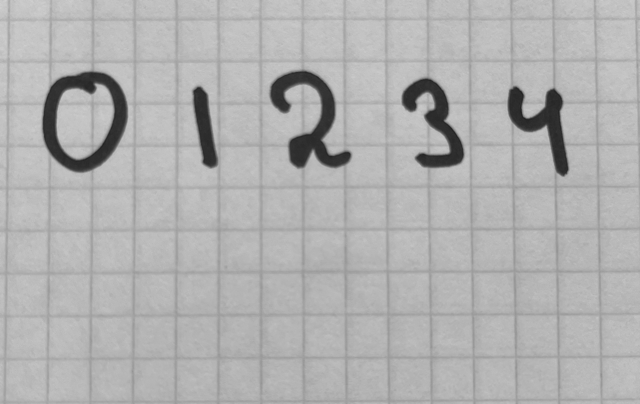
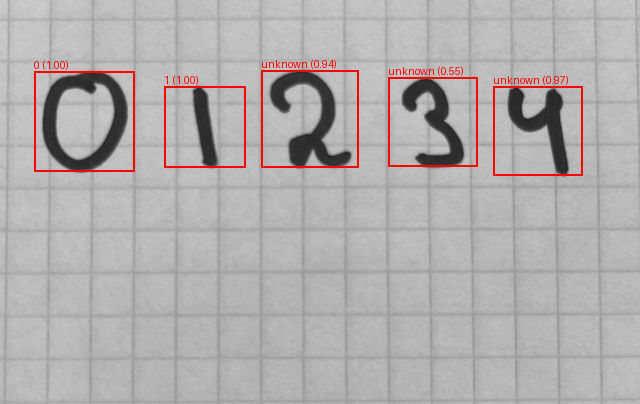
-

diff --git a/finder.py b/finder.py
@@ -4,59 +4,85 @@ from model import Net
 
 def load_and_binarize(path):
     img = Image.open(path).convert("L")
-    arr = np.array(img, np.float32) / 255
-    return (arr <= 0.4).astype(np.uint8), img
+    arr = np.array(img, dtype=np.float32) / 255.0
+    binary = (arr <= 0.4).astype(np.uint8)
+    return binary, img
 
 def find_objects(binary):
     h, w = binary.shape
-    visited = np.zeros((h, w), bool)
-    objs, dirs = [], [(-1,0),(1,0),(0,-1),(0,1)]
+    visited = np.zeros_like(binary, dtype=bool)
+    objects = []
+    dirs = [(-1,0),(1,0),(0,-1),(0,1)]
+
     for y in range(h):
         for x in range(w):
-            if binary[y,x] and not visited[y,x]:
-                q, pixels = [(y,x)], []
+            if binary[y,x] == 1 and not visited[y,x]:
+                queue = [(y,x)]
                 visited[y,x] = True
-                while q:
-                    cy,cx = q.pop()
+                pixels = []
+                while queue:
+                    cy,cx = queue.pop(0)
                     pixels.append((cx,cy))
                     for dy,dx in dirs:
                         ny,nx = cy+dy, cx+dx
-                        if 0<=ny<h and 0<=nx<w and binary[ny,nx] and not visited[ny,nx]:
+                        if 0<=ny<h and 0<=nx<w and binary[ny,nx]==1 and not visited[ny,nx]:
                             visited[ny,nx] = True
-                            q.append((ny,nx))
-                objs.append(pixels)
-    return objs
+                            queue.append((ny,nx))
+                objects.append(pixels)
+    return objects
 
-def preprocess_crop(binary, box):
-    x0,y0,x1,y1 = box
-    crop = binary[y0:y1+1, x0:x1+1] * 255
-    img = Image.fromarray(crop).resize((28,28), Image.LANCZOS)
-    return (np.array(img, np.float32)/255).flatten()[None,:]
+def preprocess_crop(binary, bbox):
+    x_min, y_min, x_max, y_max = bbox
+    crop = binary[y_min:y_max+1, x_min:x_max+1]
+    img = Image.fromarray(crop * 255).convert("L")
+    img = img.resize((28,28), Image.LANCZOS)
+    arr = np.array(img, dtype=np.float32) / 255.0
+    return arr.flatten()[None, :]
 
-def draw_objects(binary, objs, net, orig, out_path):
-    img, draw = orig.convert("RGB"), ImageDraw.Draw(orig.convert("RGB"))
+def draw_objects(binary, objects, net, orig_img, out_path):
+    img = orig_img.convert("RGB")
+    draw = ImageDraw.Draw(img)
 
-    for obj in objs:
-        xs, ys = [p[0] for p in obj], [p[1] for p in obj]
-        x0,x1,y0,y1 = min(xs),max(xs),min(ys),max(ys)
-        side = max(x1-x0+1, y1-y0+1)
-        cx, cy = (x0+x1)/2, (y0+y1)/2
-        x0,y0 = max(0,int(cx-side/2)), max(0,int(cy-side/2))
-        x1,y1 = min(binary.shape[1]-1,int(cx+side/2)), min(binary.shape[0]-1,int(cy+side/2))
+    for obj in objects:
+        xs = [p[0] for p in obj]
+        ys = [p[1] for p in obj]
+        x_min, x_max = min(xs), max(xs)
+        y_min, y_max = min(ys), max(ys)
 
-        vec = preprocess_crop(binary,(x0,y0,x1,y1))
+        w = x_max - x_min + 1
+        h = y_max - y_min + 1
+        side = max(w, h)
+        cx = (x_min + x_max) / 2
+        cy = (y_min + y_max) / 2
+
+        x_min_sq = int(cx - side/2)
+        x_max_sq = int(cx + side/2)
+        y_min_sq = int(cy - side/2)
+        y_max_sq = int(cy + side/2)
+
+        x_min_sq = max(0, x_min_sq)
+        y_min_sq = max(0, y_min_sq)
+        x_max_sq = min(binary.shape[1]-1, x_max_sq)
+        y_max_sq = min(binary.shape[0]-1, y_max_sq)
+
+        vec = preprocess_crop(binary, (x_min_sq,y_min_sq,x_max_sq,y_max_sq))
         probs = net.predict_proba(vec)[0]
-        cls, prob = probs.argmax(), probs.max()
-        label = f"{cls} ({prob:.2f})" if prob>=0.98 else f"unknown ({prob:.2f})"
+        cls = np.argmax(probs)
+        prob = probs[cls]
 
-        draw.rectangle([x0,y0,x1,y1], outline="red", width=2)
-        draw.text((x0,y0-12), label, fill="red")
+        if prob >= 0.98:
+            label = f"{cls} ({prob:.2f})"
+        else:
+            label = f"unknown ({prob:.2f})"
+
+        draw.rectangle([x_min_sq, y_min_sq, x_max_sq, y_max_sq], outline="red", width=2)
+        draw.text((x_min_sq, y_min_sq-12), label, fill="red")
 
     img.save(out_path)
     print(f"Сохранено: {out_path}")
 
 if __name__ == "__main__":
     net = Net.load("model.json")
-    binary, orig = load_and_binarize("input.png")
-    objs = find_objects(binary)
-    draw_objects(binary, objs, net, orig, "output.png")
+    binary, orig_img = load_and_binarize("input.png")
+    objects = find_objects(binary)
+    draw_objects(binary, objects, net, orig_img, "output.png")
